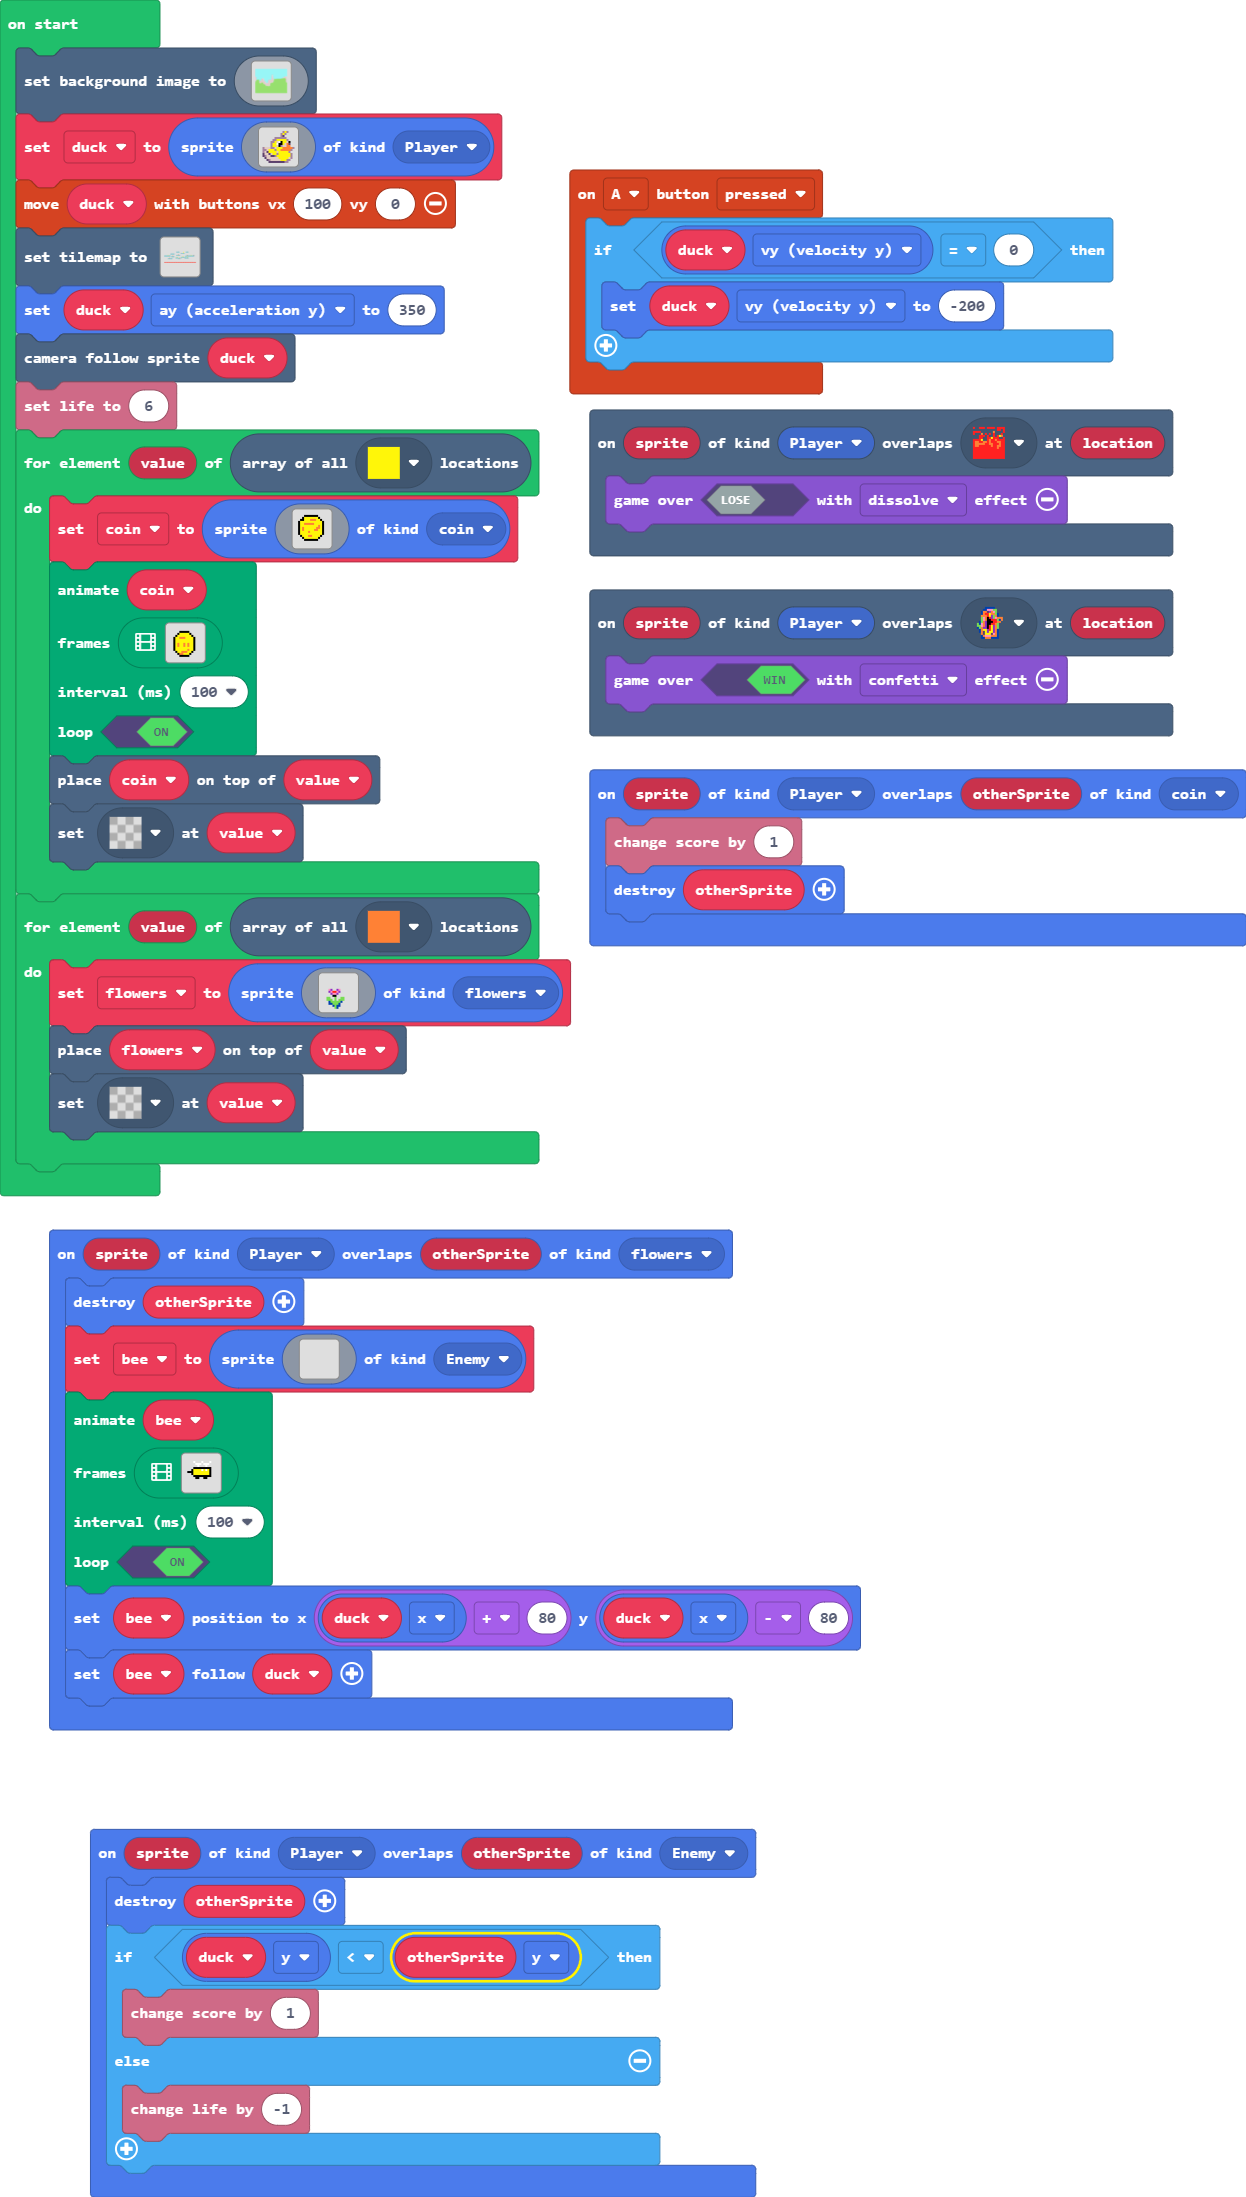
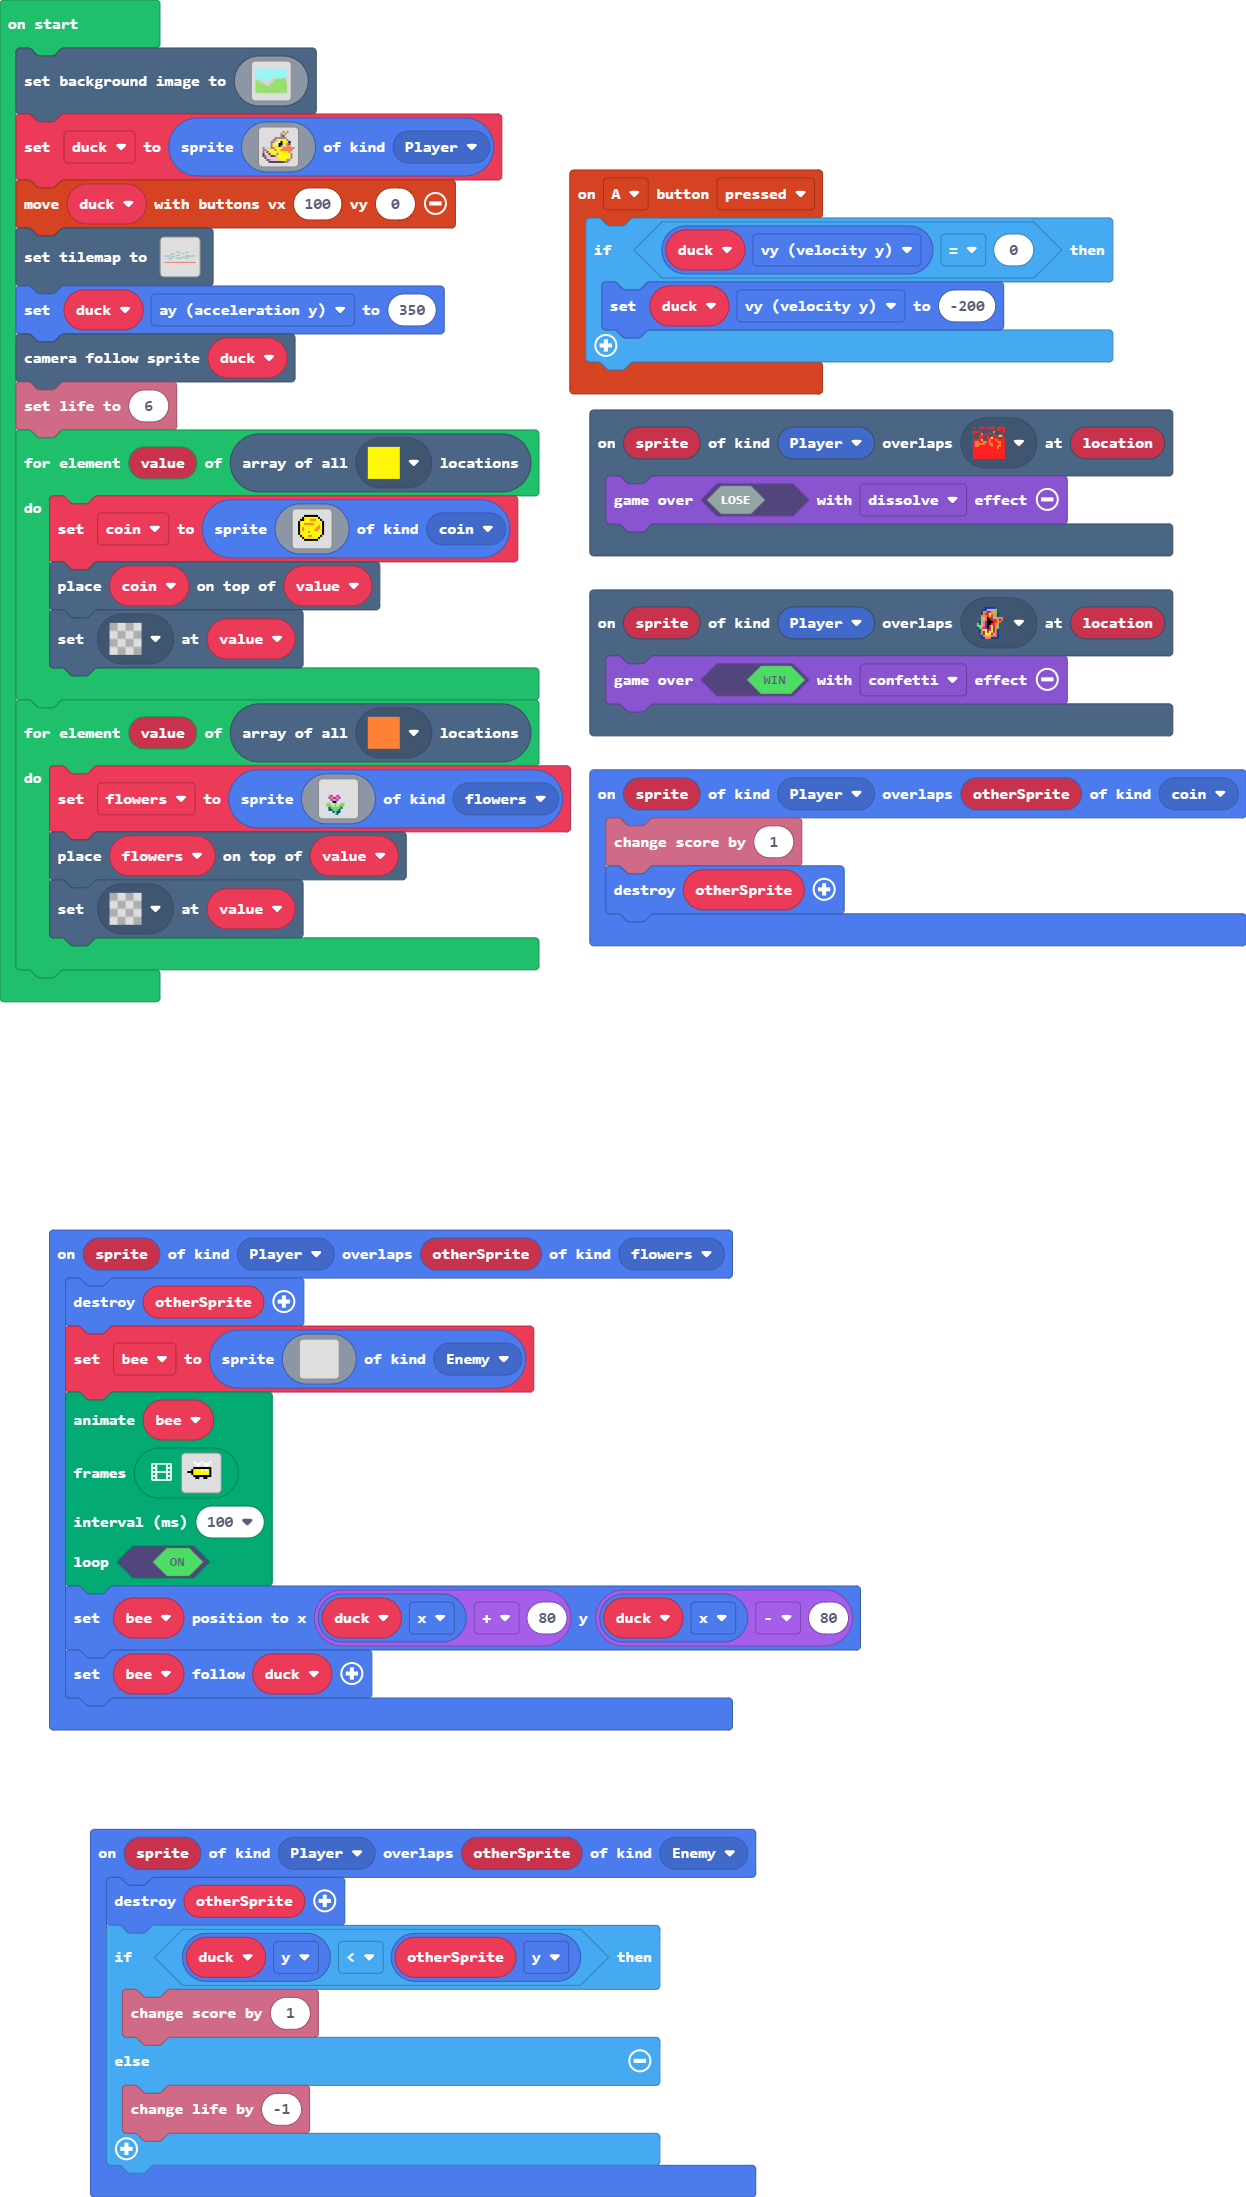
Update main.blocks, main.ts

Changed region(s): [[0.0, 0.2476, 0.4575, 0.5571]]

diff --git a/main.ts b/main.ts
@@ -257,199 +257,6 @@ for (let value of tiles.getTilesByType(assets.tile`tile4`)) {
         . . . . . . . . . . . . . . . . 
         . . . . . . . . . . . . . . . . 
         `, SpriteKind.coin)
-    animation.runImageAnimation(
-    coin,
-    [img`
-        . . . . . . . . . . . . . . . . 
-        . . . . . . . . . . . . . . . . 
-        . . . . . f f f f f . . . . . . 
-        . . . . f 5 5 5 5 5 f . . . . . 
-        . . . f 5 5 5 5 5 5 5 f . . . . 
-        . . f 5 5 4 4 4 5 5 5 5 f . . . 
-        . . f 5 5 5 5 5 5 5 5 5 f . . . 
-        . . f 5 5 5 5 5 5 5 5 5 f . . . 
-        . . f 5 4 5 5 4 5 4 5 5 f . . . 
-        . . f 5 4 5 5 4 5 4 5 5 f . . . 
-        . . f 5 5 5 5 5 5 5 5 5 f . . . 
-        . . f 5 5 5 5 5 5 4 5 5 f . . . 
-        . . . f 5 5 4 4 4 5 5 f . . . . 
-        . . . . f 4 4 5 5 5 f . . . . . 
-        . . . . . f f f f f . . . . . . 
-        . . . . . . . . . . . . . . . . 
-        `,img`
-        . . . . . . . . . . . . . . . . 
-        . . . . . . . . . . . . . . . . 
-        . . . . . . f f f . . . . . . . 
-        . . . . . f 5 5 5 f . . . . . . 
-        . . . . f 5 5 5 5 5 f . . . . . 
-        . . . f 5 5 4 4 5 5 5 f . . . . 
-        . . . f 5 5 5 5 5 5 5 f . . . . 
-        . . . f 5 5 5 5 5 5 5 f . . . . 
-        . . . f 5 4 5 5 4 5 5 f . . . . 
-        . . . f 5 4 5 5 4 5 5 f . . . . 
-        . . . f 5 5 5 5 5 5 5 f . . . . 
-        . . . f 5 5 5 5 4 5 5 f . . . . 
-        . . . . f 5 5 4 5 5 f . . . . . 
-        . . . . . f 4 4 5 f . . . . . . 
-        . . . . . . f f f . . . . . . . 
-        . . . . . . . . . . . . . . . . 
-        `,img`
-        . . . . . . . . . . . . . . . . 
-        . . . . . . . . . . . . . . . . 
-        . . . . . . f f f . . . . . . . 
-        . . . . . f 5 5 5 f . . . . . . 
-        . . . . f 5 5 5 5 5 f . . . . . 
-        . . . f 5 5 4 4 5 5 5 f . . . . 
-        . . . f 5 5 5 5 5 5 5 f . . . . 
-        . . . f 5 5 5 5 5 5 5 f . . . . 
-        . . . f 5 4 5 5 4 5 5 f . . . . 
-        . . . f 5 4 5 5 4 5 5 f . . . . 
-        . . . f 5 5 5 5 5 5 5 f . . . . 
-        . . . f 5 5 5 5 4 5 5 f . . . . 
-        . . . . f 5 5 4 5 5 f . . . . . 
-        . . . . . f 4 4 5 f . . . . . . 
-        . . . . . . f f f . . . . . . . 
-        . . . . . . . . . . . . . . . . 
-        `,img`
-        . . . . . . . . . . . . . . . . 
-        . . . . . . . . . . . . . . . . 
-        . . . . . . f f . . . . . . . . 
-        . . . . . f 5 5 f . . . . . . . 
-        . . . . f 5 5 5 5 f . . . . . . 
-        . . . f 5 5 4 5 5 5 f . . . . . 
-        . . . f 5 5 5 5 5 5 f . . . . . 
-        . . . f 5 5 5 5 5 5 f . . . . . 
-        . . . f 5 4 5 4 5 5 f . . . . . 
-        . . . f 5 4 5 4 5 5 f . . . . . 
-        . . . f 5 5 5 5 5 5 f . . . . . 
-        . . . f 5 5 5 4 5 5 f . . . . . 
-        . . . . f 5 5 5 5 f . . . . . . 
-        . . . . . f 4 5 f . . . . . . . 
-        . . . . . . f f . . . . . . . . 
-        . . . . . . . . . . . . . . . . 
-        `,img`
-        . . . . . . . . . . . . . . . . 
-        . . . . . . . . . . . . . . . . 
-        . . . . . . . f f . . . . . . . 
-        . . . . . . f 5 5 . . . . . . . 
-        . . . . . f 5 5 5 f . . . . . . 
-        . . . . f 5 5 4 5 5 f . . . . . 
-        . . . . f 5 5 5 5 5 f . . . . . 
-        . . . . f 5 5 5 5 5 f . . . . . 
-        . . . . f 5 4 5 4 5 f . . . . . 
-        . . . . f 5 4 5 4 5 f . . . . . 
-        . . . . f 5 5 5 5 5 f . . . . . 
-        . . . . f 5 5 5 4 5 f . . . . . 
-        . . . . . f 5 5 5 f . . . . . . 
-        . . . . . . f 4 5 . . . . . . . 
-        . . . . . . . f f . . . . . . . 
-        . . . . . . . . . . . . . . . . 
-        `,img`
-        . . . . . . . . . . . . . . . . 
-        . . . . . . . . . . . . . . . . 
-        . . . . . . . f f . . . . . . . 
-        . . . . . . f 5 5 . . . . . . . 
-        . . . . . f 5 5 5 f . . . . . . 
-        . . . . f 5 5 4 5 5 f . . . . . 
-        . . . . f 5 5 5 5 5 f . . . . . 
-        . . . . f 5 5 5 5 5 f . . . . . 
-        . . . . f 5 4 5 4 5 f . . . . . 
-        . . . . f 5 4 5 4 5 f . . . . . 
-        . . . . f 5 5 5 5 5 f . . . . . 
-        . . . . f 5 5 5 4 5 f . . . . . 
-        . . . . . f 5 5 5 f . . . . . . 
-        . . . . . . f 4 5 . . . . . . . 
-        . . . . . . . f f . . . . . . . 
-        . . . . . . . . . . . . . . . . 
-        `,img`
-        . . . . . . . . . . . . . . . . 
-        . . . . . . . . . . . . . . . . 
-        . . . . . . . f f . . . . . . . 
-        . . . . . . . 5 5 . . . . . . . 
-        . . . . . . f 5 5 . . . . . . . 
-        . . . . . f 5 4 5 f . . . . . . 
-        . . . . . f 5 5 5 f . . . . . . 
-        . . . . . f 5 5 5 f . . . . . . 
-        . . . . . f 5 5 4 f . . . . . . 
-        . . . . . f 5 5 4 f . . . . . . 
-        . . . . . f 5 5 5 f . . . . . . 
-        . . . . . f 5 5 4 f . . . . . . 
-        . . . . . . f 5 5 . . . . . . . 
-        . . . . . . . 4 5 . . . . . . . 
-        . . . . . . . f f . . . . . . . 
-        . . . . . . . . . . . . . . . . 
-        `,img`
-        . . . . . . . . . . . . . . . . 
-        . . . . . . . . . . . . . . . . 
-        . . . . . . . f f . . . . . . . 
-        . . . . . . . 5 5 . . . . . . . 
-        . . . . . . f 5 5 . . . . . . . 
-        . . . . . f 5 4 5 f . . . . . . 
-        . . . . . f 5 5 5 f . . . . . . 
-        . . . . . f 5 5 5 f . . . . . . 
-        . . . . . f 5 5 4 f . . . . . . 
-        . . . . . f 5 5 4 f . . . . . . 
-        . . . . . f 5 5 5 f . . . . . . 
-        . . . . . f 5 5 4 f . . . . . . 
-        . . . . . . f 5 5 . . . . . . . 
-        . . . . . . . 4 5 . . . . . . . 
-        . . . . . . . f f . . . . . . . 
-        . . . . . . . . . . . . . . . . 
-        `,img`
-        . . . . . . . . . . . . . . . . 
-        . . . . . . . . . . . . . . . . 
-        . . . . . . . f f . . . . . . . 
-        . . . . . . f 5 5 . . . . . . . 
-        . . . . . f 5 5 5 f . . . . . . 
-        . . . . f 5 5 4 5 5 f . . . . . 
-        . . . . f 5 5 5 5 5 f . . . . . 
-        . . . . f 5 5 5 5 5 f . . . . . 
-        . . . . f 5 4 5 4 5 f . . . . . 
-        . . . . f 5 4 5 4 5 f . . . . . 
-        . . . . f 5 5 5 5 5 f . . . . . 
-        . . . . f 5 5 5 4 5 f . . . . . 
-        . . . . . f 5 5 5 f . . . . . . 
-        . . . . . . f 4 5 . . . . . . . 
-        . . . . . . . f f . . . . . . . 
-        . . . . . . . . . . . . . . . . 
-        `,img`
-        . . . . . . . . . . . . . . . . 
-        . . . . . . . . . . . . . . . . 
-        . . . . . . f f . . . . . . . . 
-        . . . . . f 5 5 f . . . . . . . 
-        . . . . f 5 5 5 5 f . . . . . . 
-        . . . f 5 5 4 5 5 5 f . . . . . 
-        . . . f 5 5 5 5 5 5 f . . . . . 
-        . . . f 5 5 5 5 5 5 f . . . . . 
-        . . . f 5 4 5 4 5 5 f . . . . . 
-        . . . f 5 4 5 4 5 5 f . . . . . 
-        . . . f 5 5 5 5 5 5 f . . . . . 
-        . . . f 5 5 5 4 5 5 f . . . . . 
-        . . . . f 5 5 5 5 f . . . . . . 
-        . . . . . f 4 5 f . . . . . . . 
-        . . . . . . f f . . . . . . . . 
-        . . . . . . . . . . . . . . . . 
-        `,img`
-        . . . . . . . . . . . . . . . . 
-        . . . . . . . . . . . . . . . . 
-        . . . . . f f f f f . . . . . . 
-        . . . . f 5 5 5 5 5 f . . . . . 
-        . . . f 5 5 5 5 5 5 5 f . . . . 
-        . . f 5 5 4 4 4 5 5 5 5 f . . . 
-        . . f 5 5 5 5 5 5 5 5 5 f . . . 
-        . . f 5 5 5 5 5 5 5 5 5 f . . . 
-        . . f 5 4 5 5 4 5 4 5 5 f . . . 
-        . . f 5 4 5 5 4 5 4 5 5 f . . . 
-        . . f 5 5 5 5 5 5 5 5 5 f . . . 
-        . . f 5 5 5 5 5 5 4 5 5 f . . . 
-        . . . f 5 5 4 4 4 5 5 f . . . . 
-        . . . . f 4 4 5 5 5 f . . . . . 
-        . . . . . f f f f f . . . . . . 
-        . . . . . . . . . . . . . . . . 
-        `],
-    100,
-    true
-    )
     tiles.placeOnTile(coin, value)
     tiles.setTileAt(value, assets.tile`transparency16`)
 }
